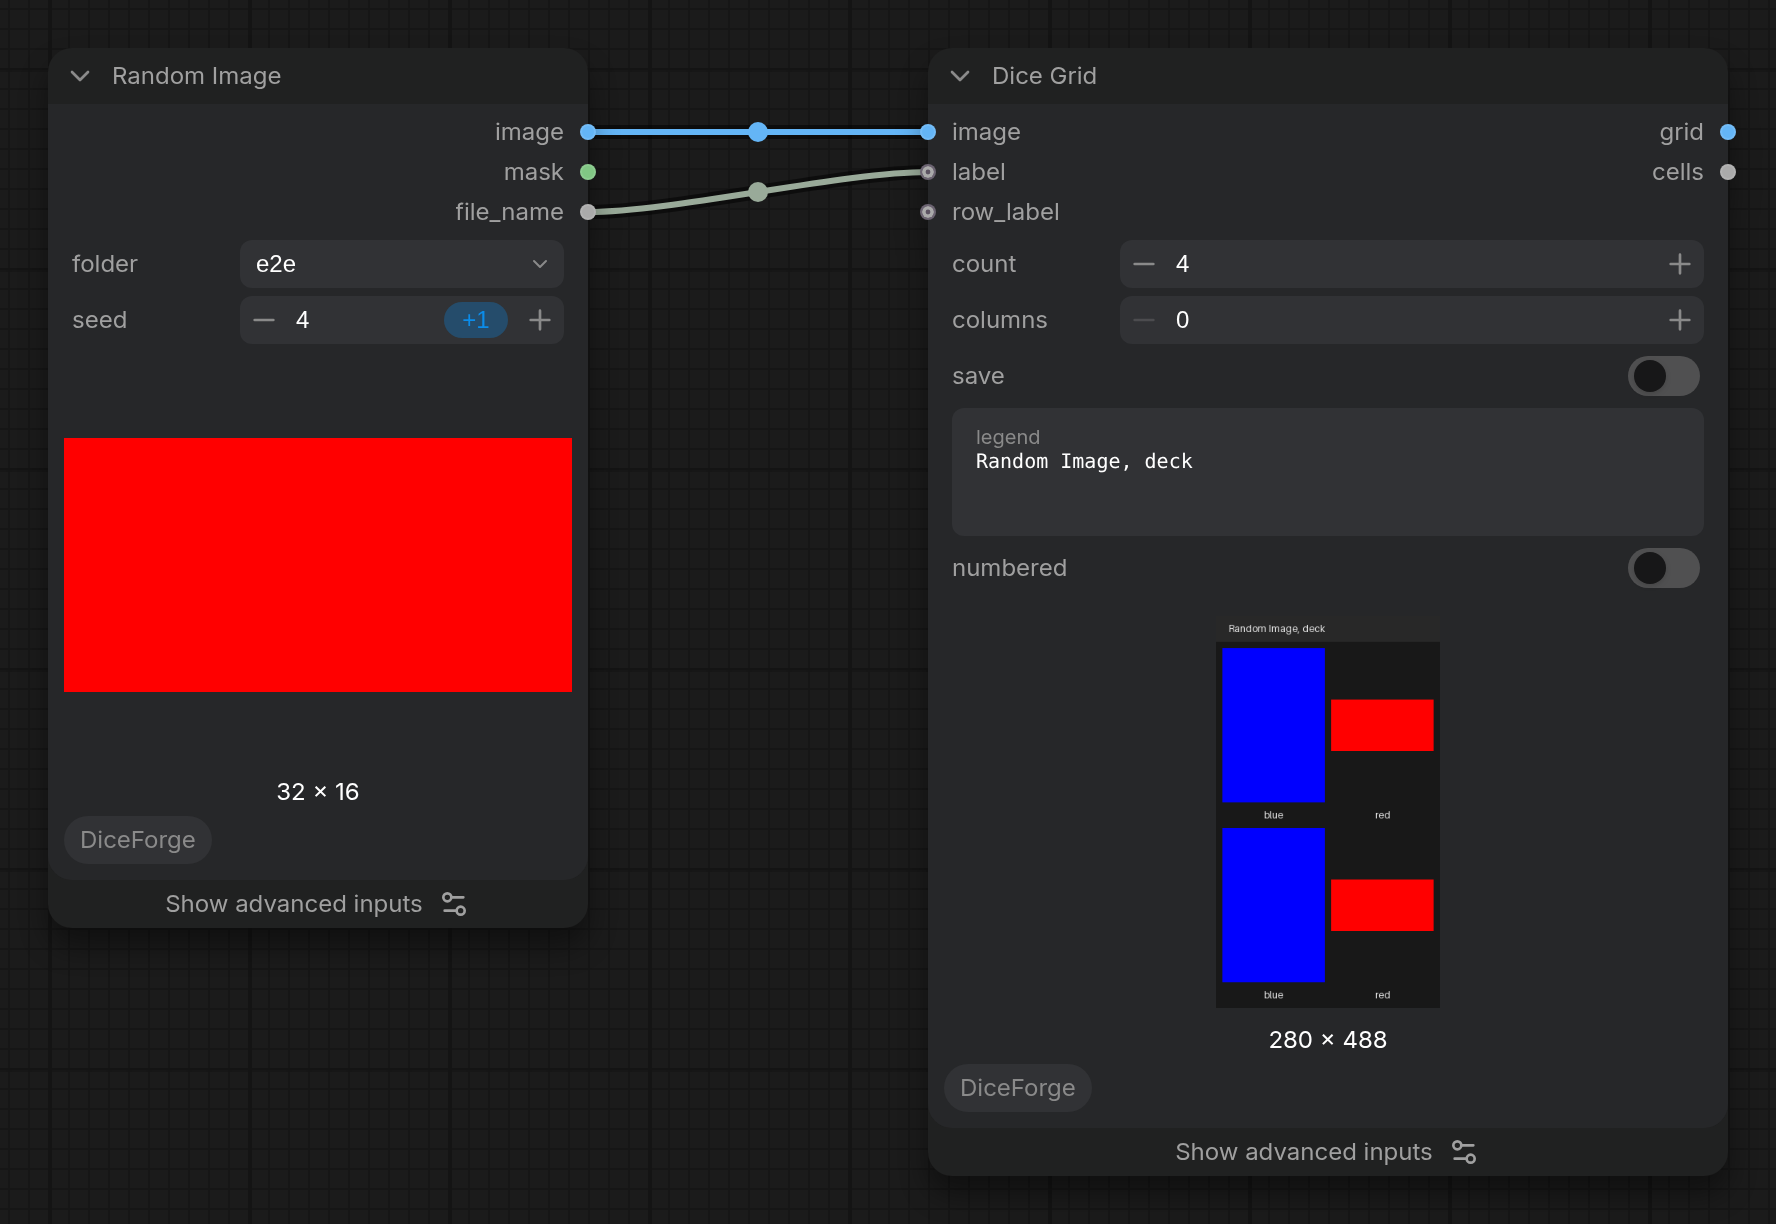
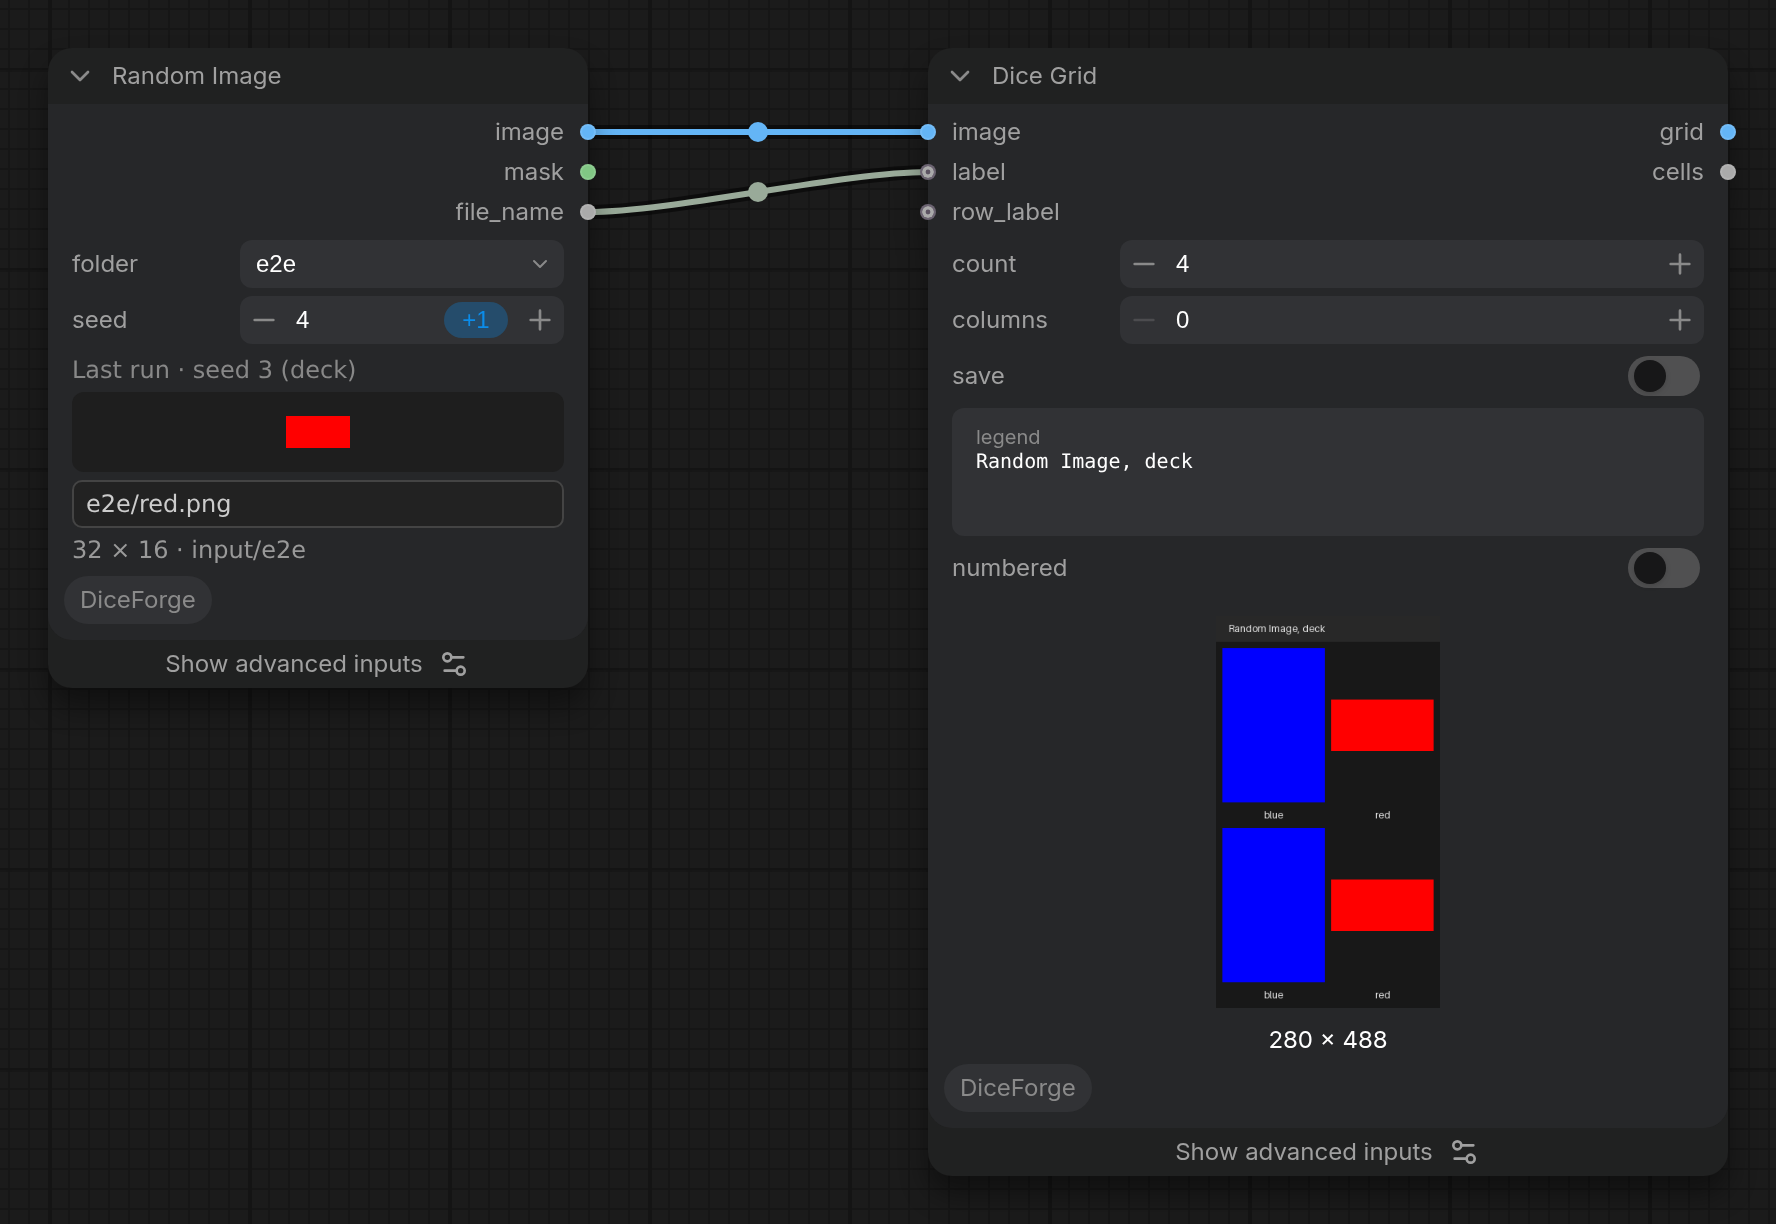
Random Image: preview of the picked image, file and seed
After each run the node shows the picked picture, its file name (click
to copy), size and frames, folder, and the seed and mode; click the
picture to open it full size. Kept in the node's properties (survives a
reload, travels with the workflow) and sent also when the node comes
from ComfyUI's cache (has_intermediate_output). A file of the input
folder is shown from there instead of a temporary copy; one from path
through a temporary copy of its first frame, and the preview says when
ComfyUI has cleared it. Both previews (prompts, image) size the node
with node_size.js, so Nodes 2.0 keeps no gap under them. Unit and e2e
tests (both node designs, cached runs, reload); README and screenshot.

Claude-Session: https://claude.ai/code/session_01MJGDoLbJHNqDgSZcxrjbuh

diff --git a/DiceForge/web/image_preview.js b/DiceForge/web/image_preview.js
@@ -1,0 +1,73 @@
+import { app } from "../../scripts/app.js";
+import { api } from "../../scripts/api.js";
+import { addStyleOnce, element } from "./dom.js";
+import { fitNodeHeight } from "./node_size.js";
+
+// Random Image shows, under its inputs, the image the last run picked: the picture, its file and folder, its size (and frames of an animated one) and
+// the seed and mode it came from. Click the picture to open it full size, the file name to copy it. Kept in the node's properties, so it is still
+// there after a reload and travels with the workflow; a file of the input folder is shown from there, one from another folder (path) through a
+// temporary copy, which ComfyUI clears on restart: then the preview says so until the next run.
+const NODE_TYPE = "DiceForgeRandomImage";
+const STYLE = `
+.dfip{font:12px system-ui,sans-serif;color:#ccc;display:flex;flex-direction:column;gap:4px;box-sizing:border-box;padding:2px 0}
+.dfip .head{color:#888}.dfip .pic{display:flex;justify-content:center;background:#1e1e1e;border-radius:6px;overflow:hidden;min-height:40px}
+.dfip .pic img{max-width:100%;max-height:360px;object-fit:contain;display:block;cursor:zoom-in}
+.dfip .file{background:#222;border:1px solid #444;border-radius:5px;padding:4px 6px;word-break:break-all;cursor:copy}.dfip .file.copied{border-color:#6a9a6a}
+.dfip .size{color:#999}.dfip .empty{color:#777;font-style:italic;padding:6px}
+`;
+const viewURL = (view, stamp) => api.apiURL(`/view?${new URLSearchParams({ filename: view.filename, subfolder: view.subfolder ?? "", type: view.type ?? "input", t: stamp })}`);
+
+app.registerExtension({
+  name: "DiceForge.ImagePreview",
+  nodeCreated(node) {
+    if (node.comfyClass !== NODE_TYPE) return;
+    addStyleOnce("dfip-style", STYLE);
+    const panel = element("div", { class: "dfip" });
+    node.addDOMWidget("image_preview", "diceforge_image_preview", panel, { serialize: false, getMinHeight: () => panel.scrollHeight + 4 });
+    let shownFrom; // The pick the panel shows (undefined: not drawn yet).
+    function render() {
+      const last = node.properties?.dice_forge_image;
+      shownFrom = last;
+      if (!last?.view?.filename) {
+        panel.replaceChildren(element("div", { class: "empty" }, "Run the workflow to see the picked image here."));
+      } else {
+        const url = viewURL(last.view, last.stamp ?? 0);
+        const picture = element("img", { src: url, alt: last.file, title: "Click to open it full size" });
+        picture.addEventListener("click", () => window.open(url, "_blank", "noopener"));
+        picture.addEventListener("load", () => fit());
+        picture.addEventListener("error", () => picture.replaceWith(element("div", { class: "empty" },
+          last.view.type === "temp" ? "The preview was a temporary copy, cleared since: run again to see it." : `${last.file} is no longer there.`)));
+        const file = element("div", { class: "file", title: `${last.folder}/${last.file} (click to copy)` }, last.file);
+        file.addEventListener("click", () => {
+          navigator.clipboard?.writeText(last.file);
+          file.classList.add("copied");
+          setTimeout(() => file.classList.remove("copied"), 600);
+        });
+        const mode = last.seed_mode ? ` (${last.seed_mode})` : "";
+        panel.replaceChildren(element("div", { class: "head" }, `Last run · seed ${last.seed}${mode}`), element("div", { class: "pic" }, picture), file,
+          element("div", { class: "size" }, `${last.width} × ${last.height}${last.frames > 1 ? ` · ${last.frames} frames` : ""} · ${last.folder}`));
+      }
+      fit();
+    }
+    // Room for the preview: taller in the classic canvas, no gap in Nodes 2.0 (node_size.js).
+    const fit = () => fitNodeHeight(node);
+    const onExecuted = node.onExecuted;
+    node.onExecuted = function (output) {
+      const result = output?.dice_forge_image?.[0];
+      if (result) {
+        node.properties ??= {};
+        node.properties.dice_forge_image = { ...result, stamp: Date.now() }; // A new run of the same file shows it again, not a cached copy.
+        render();
+      }
+      return onExecuted?.apply(this, arguments);
+    };
+    // Drawn again when the saved pick arrives (a loaded workflow gives the node its properties after this extension ran, in the classic canvas).
+    const timer = setInterval(() => { if (node.properties?.dice_forge_image !== shownFrom) render(); }, 500);
+    const onRemoved = node.onRemoved;
+    node.onRemoved = function () {
+      clearInterval(timer);
+      return onRemoved?.apply(this, arguments);
+    };
+    render();
+  },
+});

diff --git a/e2e/ui.spec.js b/e2e/ui.spec.js
@@ -487,6 +487,31 @@ for (const vue of [true, false]) {
       await expect(page.locator(".dfpp").first().locator(".box").first()).toHaveText(`positive${text}`);
     });
 
+    test("Random Image shows the picked image, its file and seed, also from the cache and after a reload", async ({ page, request }) => {
+      const [image, name] = await addNodes(page, [
+        { type: "DiceForgeRandomImage", widgets: { folder: "e2e", seed: 1, control_after_generate: "fixed", seed_mode: "sequential" } },
+        { type: "PreviewAny", pos: [500, 40] },
+      ]);
+      await connect(page, image, 2, name, 0);
+      const panel = page.locator(".dfip").first();
+      await expect(panel).toContainText("Run the workflow to see the picked image here.");
+      await queueFromPage(page, request);
+      const history = Object.values(await (await request.get("/history?max_items=1")).json())[0];
+      const file = history.outputs[String(name)].text[0]; // e2e/red.png or e2e/blue.png, by the seed.
+      await expect(panel.locator(".file")).toHaveText(file);
+      await expect(panel.locator(".head")).toHaveText("Last run · seed 1 (sequential)");
+      await expect(panel.locator(".size")).toHaveText(file.endsWith("red.png") ? "32 × 16 · input/e2e" : "16 × 24 · input/e2e");
+      await expect(panel.locator("img")).toHaveJSProperty("naturalWidth", file.endsWith("red.png") ? 32 : 16); // From the input folder.
+      await page.evaluate((id) => { delete window.app.graph.getNodeById(id).properties.dice_forge_image; }, image);
+      await expect(panel).toContainText("Run the workflow");
+      await queueFromPage(page, request); // The same inputs: the node comes from ComfyUI's cache, and still shows its pick.
+      await expect(panel.locator(".file")).toHaveText(file);
+      const workflow = await page.evaluate(() => window.app.graph.serialize());
+      await page.evaluate(async (data) => { window.app.graph.clear(); await window.app.loadGraphData(data); }, workflow);
+      await expect(page.locator(".dfip").first().locator(".file")).toHaveText(file); // Kept with the workflow.
+      await expect(page.locator(".dfip").first().locator("img")).toHaveJSProperty("naturalWidth", file.endsWith("red.png") ? 32 : 16);
+    });
+
     if (vue) {
       test("DiceForge nodes fit their inputs when advanced inputs are shown and hidden", async ({ page }) => { // NOSONAR: expect.poll(...) assertions below.
         const [id] = await addNodes(page, [{ type: "SDXLResolutionListLatent" }]);

diff --git a/DiceForge/web/prompt_preview.js b/DiceForge/web/prompt_preview.js
@@ -1,5 +1,6 @@
 import { app } from "../../scripts/app.js";
 import { addStyleOnce, element } from "./dom.js";
+import { fitNodeHeight } from "./node_size.js";
 
 // CLIP Dual Text Encode shows, under its inputs, the positive and negative prompts as the last run encoded them: choices, wildcards and variables
 // filled in, with the seed and mode they came from. Click a prompt to copy it. They are kept in the node's properties, so they are still there after
@@ -41,8 +42,7 @@ app.registerExtension({
           box("positive", last.positive ?? ""), box("negative", last.negative ?? ""));
       }
       markStale();
-      node.setSize?.([node.size[0], Math.max(node.size[1], node.computeSize()[1])]); // Room for the preview in the classic canvas.
-      node.setDirtyCanvas?.(true, true);
+      fitNodeHeight(node); // Room for the preview: taller in the classic canvas, no gap in Nodes 2.0 (node_size.js).
     }
     // Dimmed while the prompts in the fields are not the ones the preview came from.
     function markStale() {

diff --git a/DiceForge/random_image.py b/DiceForge/random_image.py
@@ -48,6 +48,7 @@ class RandomImageLoader(io.ComfyNode):
             category="DiceForge/loaders",
             description="Loads an image picked from a folder, like Load Image, with the DiceForge seed modes (deck, shuffle... go through every image before repeating one).",
             search_aliases=["random image", "load image", "image from folder", "image batch", "random picture", "random", "seed modes"],
+            has_intermediate_output=True, # The picked image reaches the node's preview also when the node comes from the cache.
             inputs=[
                 io.Combo.Input(
                     "folder",
@@ -114,7 +115,16 @@ class RandomImageLoader(io.ComfyNode):
             image, mask = load_image_file(os.path.join(root, name))
         except (OSError, ValueError, RuntimeError) as error: # A damaged or truncated file: say which one, so it can be fixed or removed.
             raise ValueError(f"Random Image: {name} can't be read ({error}). Fix or remove it, or use another seed.") from None
-        return io.NodeOutput(image, mask, name, ui=ui.PreviewImage(image, cls=cls))
+        # The node's preview (web/image_preview.js): the picked file with its size and the seed it came from. A file of the input folder is shown
+        # from there (it stays, also after a restart); one from another folder through a temporary copy of its first frame, like Preview Image.
+        if path.strip():
+            view = ui.PreviewImage(image[:1], cls=cls).values[0]
+        else:
+            subfolder, file = os.path.split(os.path.relpath(os.path.join(root, name), folder_paths.get_input_directory()))
+            view = {"filename": file, "subfolder": subfolder.replace(os.sep, "/"), "type": "input"}
+        shown = {"file": name, "folder": root if path.strip() else "input" + ("" if folder == ALL_FOLDERS else f"/{folder}"), "width": int(image.shape[2]),
+                 "height": int(image.shape[1]), "frames": int(image.shape[0]), "seed": seed, "seed_mode": seed_mode, "view": view}
+        return io.NodeOutput(image, mask, name, ui={"dice_forge_image": [shown]})
 # Extension entry point for ComfyUI V3 node registration.
 class RandomImageLoaderExtension(ComfyExtension):
     @override

diff --git a/tests/test_random_nodes.py b/tests/test_random_nodes.py
@@ -160,6 +160,20 @@ def test_random_image_loads_like_load_image(images):
     assert np.allclose(image[0, 0, 0].cpu().numpy(), [1.0, 0.0, 0.0])
 
 
+def test_random_image_sends_its_pick_to_the_node_preview(images, monkeypatch):
+    output = RandomImageLoader.execute(seed=1, seed_mode="sequential", path=str(images)) # Another folder: a temporary copy to show.
+    shown = output.ui["dice_forge_image"][0]
+    assert {key: shown[key] for key in ("file", "folder", "width", "height", "frames", "seed", "seed_mode")} == \
+        {"file": "sub/blue.png", "folder": os.path.abspath(str(images)), "width": 8, "height": 8, "frames": 1, "seed": 1, "seed_mode": "sequential"}
+    assert shown["view"]["type"] == "temp" and shown["view"]["filename"].endswith(".png")
+    assert set(output.ui) == {"dice_forge_image"} # Only this preview: not also ComfyUI's image preview.
+    monkeypatch.setattr(model_lists.folder_paths, "get_input_directory", lambda: str(images)) # The input folder: shown from there.
+    shown = RandomImageLoader.execute(folder="sub", seed=0, seed_mode="sequential").ui["dice_forge_image"][0]
+    assert shown["file"] == "sub/blue.png" and shown["folder"] == "input/sub" and shown["view"] == {"filename": "blue.png", "subfolder": "sub", "type": "input"}
+    shown = RandomImageLoader.execute(seed=0, seed_mode="sequential").ui["dice_forge_image"][0]
+    assert shown["folder"] == "input" and shown["view"] == {"filename": "red.png", "subfolder": "", "type": "input"}
+
+
 def test_random_image_errors(tmp_path, images):
     with pytest.raises(ValueError, match="is not a folder"):
         RandomImageLoader.execute(path=str(tmp_path / "missing"))

diff --git a/README.md b/README.md
@@ -262,7 +262,7 @@ Each loader outputs what its core loader does (`model`, `clip`, `vae`) plus the 
 
 <img src="docs/images/random_image_dice_grid.png" width="888" alt="Random Image in deck mode feeding Dice Grid, after four runs">
 
-Like **Load Image**, but the image is picked from a folder with the [seed modes](#seed-modes-for-sizes): with `deck` and *increment* an img2img or ControlNet series goes through every image once before any repeats. The picked image is shown on the node.
+Like **Load Image**, but the image is picked from a folder with the [seed modes](#seed-modes-for-sizes): with `deck` and *increment* an img2img or ControlNet series goes through every image once before any repeats. After each run the node shows the picked image, its file name (click to copy), size (and frames of an animated one), folder, and the seed and mode it came from; click the image to open it full size. The preview is kept with the workflow, so it is still there after a reload, and it also updates when the node comes from ComfyUI's cache. A file of the input folder is shown from there; one from `path` through a temporary copy, which ComfyUI clears on restart (the preview then says to run again).
 
 | Input | Where | Description |
 |---|---|---|
